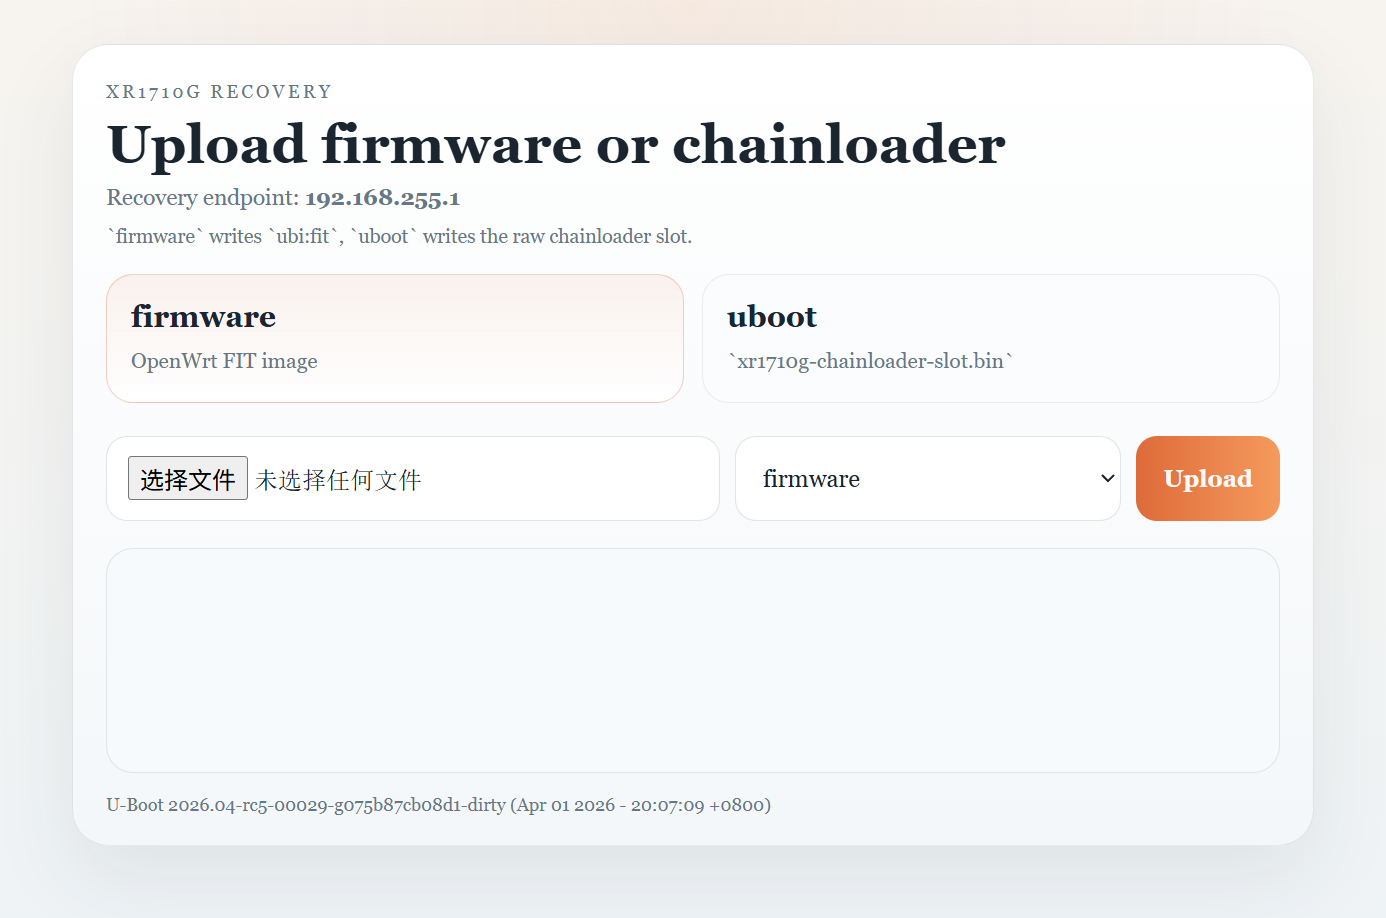
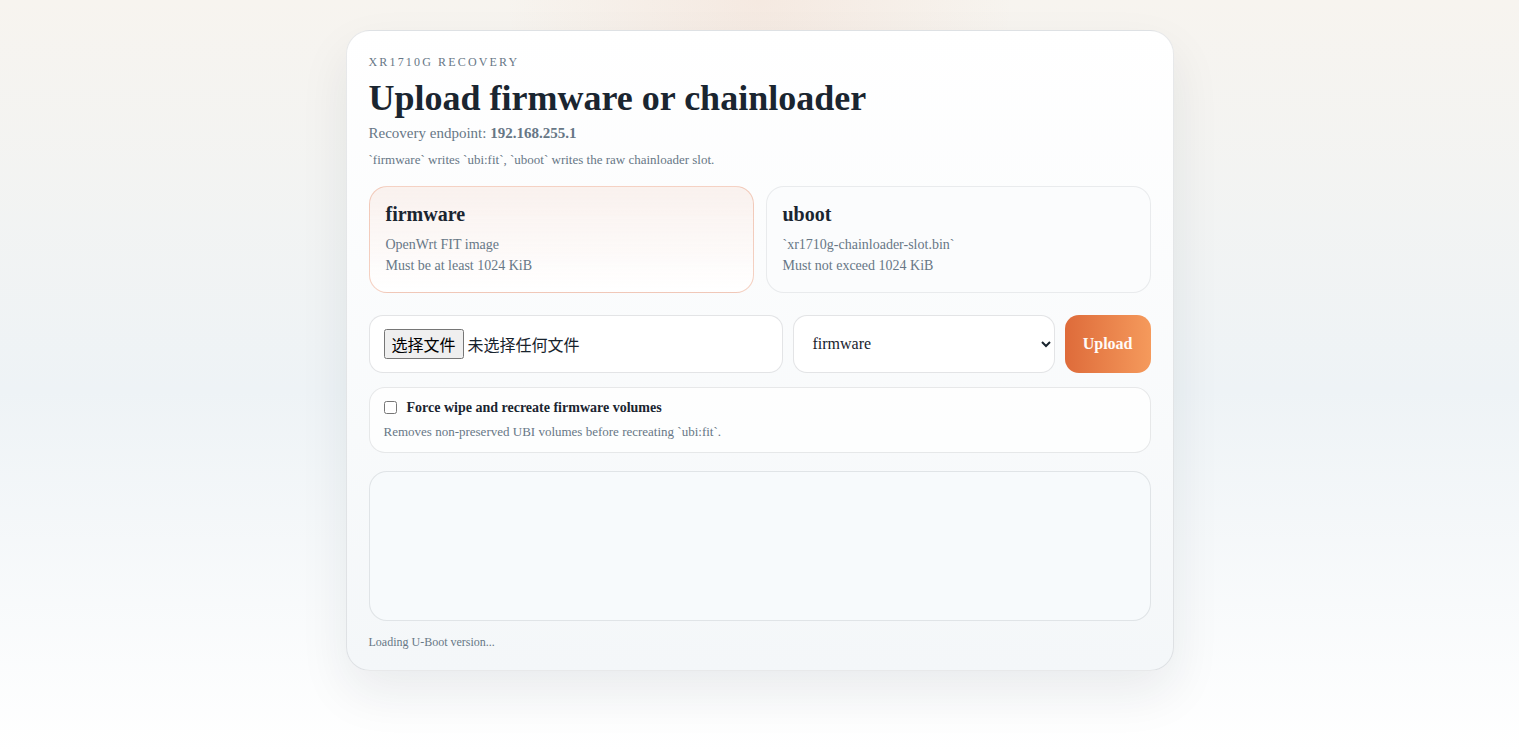
update readme

diff --git a/README.md b/README.md
@@ -7,18 +7,141 @@ This is a customized U-Boot port for the XR1710G. Its main features are:
 - Built-in DHCP server so a connected PC can obtain an address automatically in recovery mode
 - Recovery page address: `http://192.168.255.1`
 
-## Entering HTTP Recovery
+## Flashing Summary
 
-1. Connect your PC to the 10GbE port and leave the NIC in DHCP / automatic address mode.
+Use this section as the short operational checklist. The detailed background
+and rationale are folded below.
+
+### 1. HTTP Recovery Web Flash
+
+Use this after the custom U-Boot is installed and you only want to update the
+main OpenWrt firmware.
+
+1. Connect the PC to the 10GbE port and leave the PC NIC in DHCP mode.
 2. Power on the router.
 3. Once the 10GbE port LED starts blinking, press and hold the `reset` button.
-4. If you are unsure about the timing, you can wait a few more seconds. Because of the chainloader, there is a fairly large timing margin here.
-5. Keep holding the button until the status LED changes from solid red to a flowing pattern, which indicates that HTTP Recovery has started.
-6. Open `http://192.168.255.1` in your browser.
+4. If you are unsure about the timing, wait a few more seconds. Because of the
+   chainloader, there is a fairly large timing margin here.
+5. Release the button after the status LED changes from solid red to the
+   flowing recovery pattern.
+6. Open `http://192.168.255.1`.
+7. Select the upload target:
+   - `firmware` writes the OpenWrt-generated `*-sysupgrade.itb` to `ubi:fit`.
+   - `uboot` writes `xr1710g-chainloader-slot.bin` to the raw chainloader slot.
+8. For normal same-layout firmware upgrades, leave `Force wipe and recreate
+   firmware volumes` unchecked.
+9. For cross-partition or UBI volume layout upgrades, check `Force wipe and
+   recreate firmware volumes`, then upload the `firmware` image. This removes
+   non-preserved UBI volumes before recreating `ubi:fit`, while keeping or
+   recreating the preserved volumes such as `ubootenv`, `ubootenv2`, and
+   `factory`. This option only applies to the `firmware` target.
 
-Screenshot of the web page:
+HTTP Recovery page screenshot:
 
 ![HTTP Recovery page screenshot](./image.png)
+
+Do not upload `u-boot.bin`, `u-boot.img`, or `xr1710g-ubi.img` through HTTP
+Recovery. Use `xr1710g-chainloader-slot.bin` only with the `uboot` target.
+
+> [!WARNING]
+> - Do not flash `u-boot.bin` directly.
+> - Do not treat `u-boot.img` as the final flash image.
+> - The U-Boot/chainloader image to write is `out/xr1710g-chainloader-slot.bin`.
+> - For main OpenWrt firmware, HTTP Recovery uses `*-sysupgrade.itb`, while
+>   low-level raw flashing uses `out/xr1710g-ubi.img`.
+
+### 2. OpenWrt / Linux `nandwrite` on the Legacy Layout
+
+Use this when the device is still running Linux with the original vendor
+layout and the active slot is still named `tclinux`.
+
+Copy the image to the router:
+
+```sh
+scp out/xr1710g-chainloader-slot.bin root@<router-ip>:/tmp/
+```
+
+On the router:
+
+```sh
+grep -E 'tclinux|tclinux_slave' /proc/mtd
+
+# If the primary slot is /dev/mtd5, back up and replace only its first 1 MiB.
+nanddump -l 0x100000 -f /tmp/tclinux-head-1m.bin /dev/mtd5
+flash_erase /dev/mtd5 0 8
+nandwrite -p /dev/mtd5 /tmp/xr1710g-chainloader-slot.bin
+
+sync
+reboot
+```
+
+Do not use `sysupgrade` for this U-Boot/chainloader write, and do not overwrite
+the whole `64 MiB` `tclinux` slot.
+
+### 3. ECNT Stock U-Boot Prompt
+
+Use the stock ECNT / AXON prompt to verify environment and RAM boot behavior.
+
+Expected boot-critical environment:
+
+```sh
+printenv bootcmd loadaddr fdt_high
+
+setenv loadaddr 0x81800000
+setenv fdt_high 0xac000000
+setenv bootcmd 'flash read 0x602100 0x4000000 $loadaddr; bootm'
+saveenv
+```
+
+RAM-only TFTP validation with the slot image:
+
+```sh
+setenv ipaddr 192.168.0.1
+setenv serverip 192.168.0.205
+tftpboot 0x81800000 xr1710g-chainloader-slot.bin
+bootm 0x81802100
+```
+
+RAM-only TFTP validation with the bare FIT artifact:
+
+```sh
+setenv ipaddr 192.168.0.1
+setenv serverip 192.168.0.205
+tftpboot 0x81800000 xr1710g-chainloader.itb
+bootm 0x81800000
+```
+
+### 4. Migration from `w1700k-ubi-installer`
+
+If the first-stage boot command was changed by the older installer, fix it
+before expecting the current `xr1710g-chainloader-slot.bin` to boot
+automatically.
+
+Check the current command:
+
+```sh
+printenv bootcmd
+```
+
+Use one of these compatible forms:
+
+```sh
+setenv bootcmd 'flash read 0x602100 0x100000 $loadaddr; bootm 0x81800000'
+saveenv
+```
+
+or:
+
+```sh
+setenv bootcmd 'flash read 0x600000 0x100000 $loadaddr; bootm 0x81802100'
+saveenv
+```
+
+Then use the OpenWrt/Linux `nandwrite` flow above or a known-good vendor update
+path to write the actual image.
+
+<details>
+<summary>Flash image notes</summary>
 
 ## Flash Image Notes
 
@@ -35,19 +158,15 @@ Upstream reference:
 
 - OpenWrt PR `#22397`: <https://github.com/openwrt/openwrt/pull/22397>
 
-If you are flashing the main system firmware rather than U-Boot, there are two different cases:
-
-- HTTP Recovery web upload
-  Upload the OpenWrt-generated `*-sysupgrade.itb`
-  This file is written to the `fit` volume inside the `ubi` partition
-- Low-level raw flashing
-  You may use `out/xr1710g-ubi.img`
-  This is a raw system image for the whole `ubi` partition, not the file used for HTTP Recovery upload
-
 > [!WARNING]
 > - Do not flash `u-boot.bin` directly
 > - Do not treat `u-boot.img` as the final flash image
 > - The final image to flash is the packaged `xr1710g-chainloader-slot.bin`
+
+</details>
+
+<details>
+<summary>ECNT stock U-Boot details</summary>
 
 ## Flash From ECNT Stock U-Boot
 
@@ -152,6 +271,11 @@ not provide an unverified raw `flash write` command for the stock prompt; use a
 known-good vendor update path or the OpenWrt `nandwrite` flow below for the
 persistent write.
 
+</details>
+
+<details>
+<summary>Migration from w1700k-ubi-installer details</summary>
+
 ## Migration From `w1700k-ubi-installer`
 
 If the device is being switched from the older `w1700k-ubi-installer` path to
@@ -215,6 +339,11 @@ setenv bootcmd 'flash read 0x600000 0x100000 $loadaddr; bootm 0x81802100'
 saveenv
 ```
 
+</details>
+
+<details>
+<summary>Current partition layout details</summary>
+
 ## Current Partition Layout
 
 The current flash partition layout is:
@@ -236,6 +365,11 @@ This layout matches the current OP mainline layout.
 In the OpenWrt tree, the upstream XR1710G DTS added by OpenWrt PR `#22397`
 uses the same partition model as the local U-Boot/OpenWrt tree for
 `vendor`, `chainloader`, `ubi`, and `reserved_bmt`.
+
+</details>
+
+<details>
+<summary>OpenWrt legacy tclinux flashing details</summary>
 
 ## Flashing the Primary `tclinux` Slot from OpenWrt
 
@@ -275,6 +409,11 @@ Additional notes:
 - These commands apply to the old layout where the primary slot is `tclinux`
 - If the device has already been migrated to the new `vendor + chainloader + ubi` layout, write the `chainloader` partition directly instead of writing `tclinux`
 
+</details>
+
+<details>
+<summary>Why the raw build artifact cannot be flashed directly</summary>
+
 ## Why the Raw Build Artifact Cannot Be Flashed Directly
 
 The vendor boot chain follows a `bootm` path and cannot boot a bare `u-boot.bin` directly.
@@ -282,6 +421,11 @@ The vendor boot chain follows a `bootm` path and cannot boot a bare `u-boot.bin`
 Because of that, the U-Boot in this project is used as a secondary payload. An outer wrapper with a Linux `Image`-style header and a chainloader package must be added so that the vendor `bootm` path will accept it. That outer wrapper first boots a shim, and the shim then jumps to the real `u-boot.bin`.
 
 In other words, the U-Boot artifact produced by the build cannot be flashed directly. It must first be packaged into a chainloader image with the required Linux-style header.
+
+</details>
+
+<details>
+<summary>Packaging files and build commands</summary>
 
 ## Files Required for Packaging
 
@@ -335,8 +479,15 @@ cat "$output_fit" >> "$output_slot"
 
 ```
 
+</details>
+
+<details>
+<summary>Reference projects</summary>
+
 ## Reference Projects
 
 - U-Boot official homepage: <https://u-boot.org/>
 - U-Boot official documentation: <https://docs.u-boot.org/>
 - U-Boot official source repository: <https://source.denx.de/u-boot/u-boot>
+
+</details>